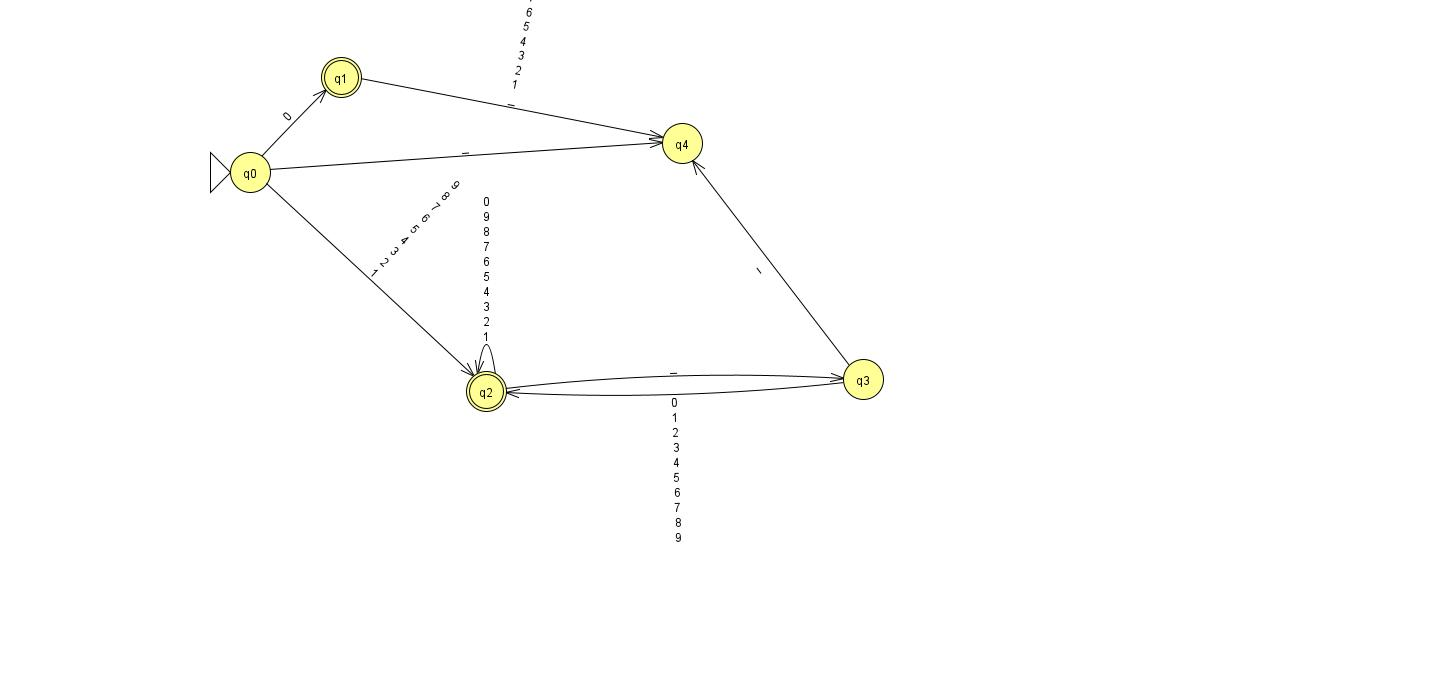
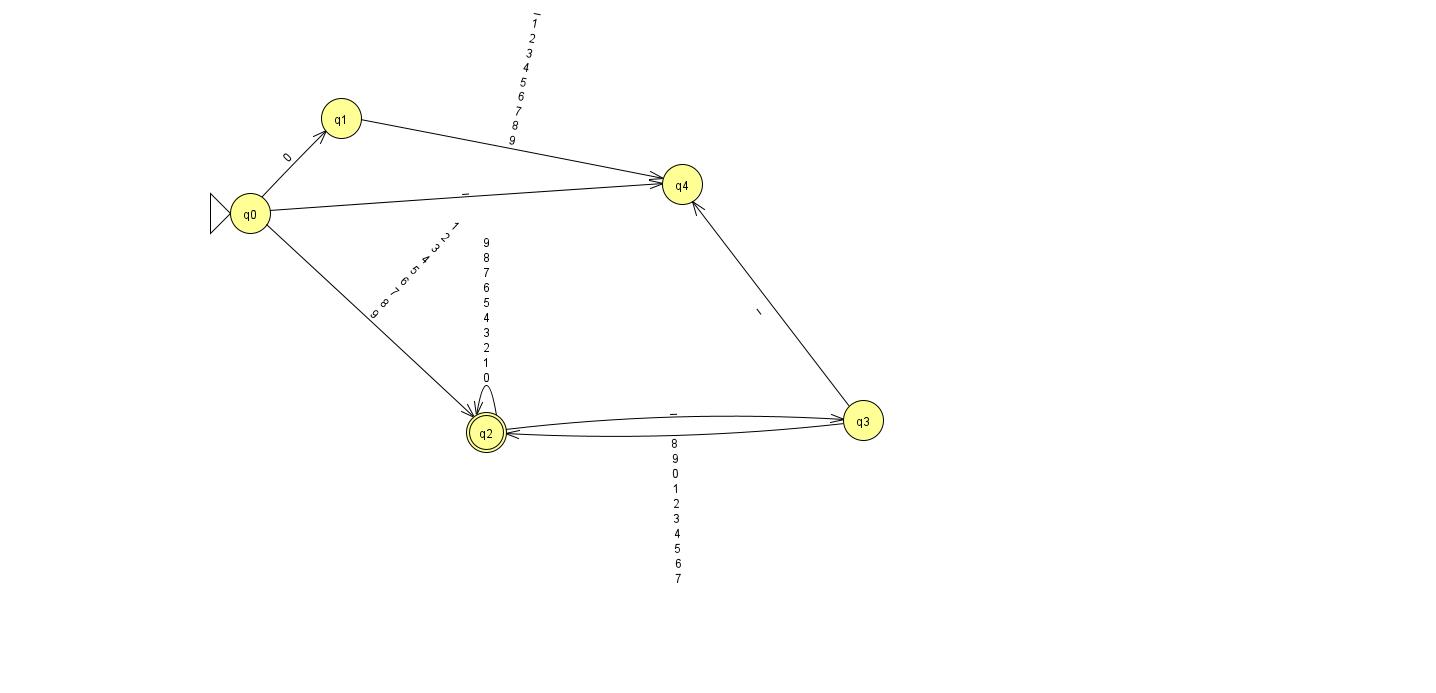
Fixed decinteger behavior, before a single zero was accepted, this is no longer the case (Added fix to txt file)

diff --git a/main.py b/main.py
@@ -13,7 +13,7 @@ class NFAmain:
     def __init__(self):
         
         self.start_state = "START"
-        self.accept_states= {"DIGIT" , "ZERO"}
+        self.accept_states= {"DIGIT"}
         self.current_state = self.start_state
 
 
@@ -84,7 +84,7 @@ class NFAmain:
                                     continue
                                 result = self.run(input_str)
                                 status = "accepted" if result else "rejected"
-                                outfile.write(f"Line {line_number}: '{input_str}' → {status}\n")
+                                outfile.write(f"Line {line_number}: '{input_str}' -> {status}\n")
                                 print(f" Results written to '{output_file}'.")
                   except FileNotFoundError:
                       print(f" error in file {input_file}")
